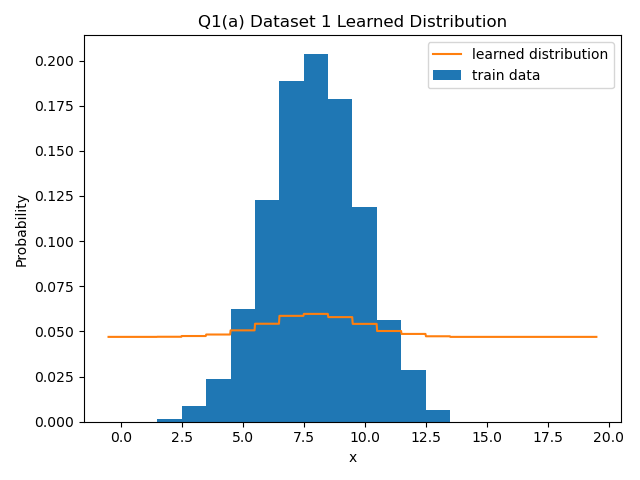
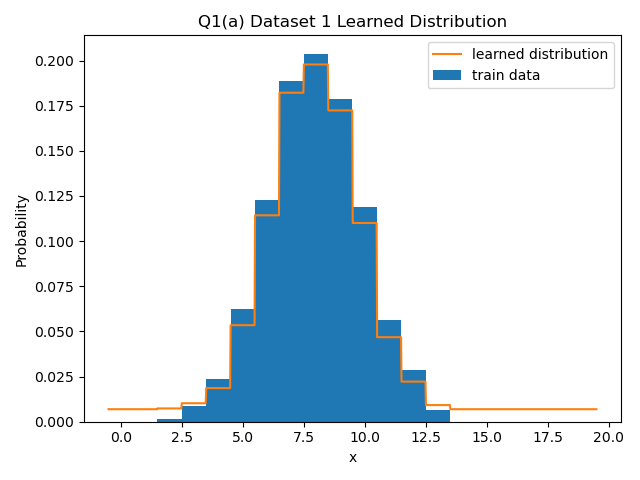
wip

diff --git a/homework1/playground.py b/homework1/playground.py
@@ -9,41 +9,69 @@ import trainer
 import models
 
 
-def q1_a(train_data, test_data, d, dset_id):
-    """
-    train_data: An (n_train,) numpy array of integers in {0, ..., d-1}
-    test_data: An (n_test,) numpy array of integers in {0, .., d-1}
-    d: The number of possible discrete values for random variable x
-    dset_id: An identifying number of which dataset is given (1 or 2). Most likely
-               used to set different hyperparameters for different datasets
-
-    Returns
-    - a (# of training iterations,) numpy array of train_losses evaluated every minibatch
-    - a (# of epochs + 1,) numpy array of test_losses evaluated once at initialization and after each epoch
-    - a numpy array of size (d,) of model probabilities
-    """
+def proto_q(train_data,
+            test_data,
+            model,
+            lr
+            ):
     batch_size = 64
-    model = models.Histogram(d)
-    optimizer = optim.SGD(model.parameters(), lr=0.001, momentum=0.9)
+    optimizer = optim.SGD(model.parameters(), lr=lr, momentum=0.9)
     train_dataloader = data.DataLoader(train_data,
                                        batch_size=batch_size,
                                        shuffle=True)
     test_dataloader = data.DataLoader(test_data,
                                       batch_size=batch_size,
                                       shuffle=True)
-    trainer.train_model(model, {
+    model, losses = trainer.train_model(model, {
         trainer.DataLoaderType.TRAIN: train_dataloader,
         trainer.DataLoaderType.TEST: test_dataloader
     },
-                        epochs=10,
-                        optimizer=optimizer
-                        )
-    return [100], [100], model.get_distribution()
+                                        epochs=50,
+                                        optimizer=optimizer,
+                                        batch_size=batch_size
+                                        )
 
+    train_loss = map(lambda x: x[trainer.DataLoaderType.TRAIN], losses)
+    test_loss = map(lambda x: x[trainer.DataLoaderType.TEST], losses)
+    return list(train_loss), list(test_loss), model.get_distribution()
+
+
+def q1_a(train_data, test_data, d, dset_id):
+    batch_size = 64
+    model = models.Histogram(d)
+    optimizer = optim.SGD(model.parameters(), lr=0.01, momentum=0.9)
+    train_dataloader = data.DataLoader(train_data,
+                                       batch_size=batch_size,
+                                       shuffle=True)
+    test_dataloader = data.DataLoader(test_data,
+                                      batch_size=batch_size,
+                                      shuffle=True)
+    model, losses = trainer.train_model(model, {
+        trainer.DataLoaderType.TRAIN: train_dataloader,
+        trainer.DataLoaderType.TEST: test_dataloader
+    },
+                                        epochs=50,
+                                        optimizer=optimizer,
+                                        batch_size=batch_size
+                                        )
+
+    train_loss = map(lambda x: x[trainer.DataLoaderType.TRAIN], losses)
+    test_loss = map(lambda x: x[trainer.DataLoaderType.TEST], losses)
+    return list(train_loss), list(test_loss), model.get_distribution()
+
+
+def q1_b(train_data, test_data, d, dset_id):
+    model = models.MixtureOfLogistics(d)
+    return proto_q(train_data, test_data, model, lr=0.00001)
 
 if __name__ == '__main__':
     # train_data, test_data = q1_sample_data_1()
     # d = 20
     # dset_type = 1
     # train_losses, test_losses, distribution = q1_a(train_data, test_data, d, dset_type)
-    q1_save_results(1, 'a', q1_a)
+
+    # q1_save_results(1, 'a', q1_a)
+    # q1_save_results(2, 'a', q1_a)
+
+    q1_save_results(1, 'b', q1_b)
+    # q1_save_results(2, 'b', q1_b)

diff --git a/homework1/models.py b/homework1/models.py
@@ -77,3 +77,79 @@ class Histogram(nn.Module):
         distribution = distribution.cpu().detach().numpy()
         distribution = np.squeeze(distribution)
         return distribution
+
+
+# https://github.com/Rayhane-mamah/Tacotron-2/issues/155
+# https://arxiv.org/pdf/1701.05517.pdf
+
+class MixtureOfLogistics(nn.Module):
+    def __init__(self, d, n_mix=4):
+        super().__init__()
+        self.d = d
+        self.n_mix = 4
+        # pi, m, s
+        self.W = torch.zeros(n_mix, 3)
+        self.W[:, 2] = torch.tensor(1 / n_mix)
+        self.W[:, 0] = torch.tensor(1 / n_mix)
+        self.W = nn.Parameter(self.W)
+        self.W.requires_grad = True
+
+    def forward(self, x):
+        value = 0
+        # pis = self.W[:, 1]
+        # softmaxed_pis = nn.Softmax(pis)
+        for i in range(self.n_mix):
+            s_pi = self.W[i, 0]  # softmaxed_pis[i]
+            m = self.W[i, 1]
+            s = self.W[i, 2]
+            active_x = torch.div(torch.subtract(x, m), s)
+            sigm = nn.Sigmoid()
+            sigmoid_result = sigm(active_x)
+            value += s_pi * sigmoid_result
+        # TODO: add clamping here
+        return value
+
+    # For the edge case of when $x = 0$,
+    # we replace $x-0.5$ by $-\infty$,
+    # and for $x = d-1$,
+    # we replace $x+0.5$ by $\infty$.
+
+    # https://github.com/Rayhane-mamah/Tacotron-2/blob/d13dbba16f0a434843916b5a8647a42fe34544f5/wavenet_vocoder/models/mixture.py#L44-L49
+
+    def loss(self, x):
+        #torch.autograd.set_detect_anomaly(True)
+        batch_size = x.shape[0]
+        bins = torch.tensor(list(range(0, self.d)))
+        minus_inf = float('-inf')
+        positive_inf = float('inf')
+        term_a = bins - 0.5
+        term_a[term_a == -0.5] = torch.tensor(minus_inf)
+        term_b = bins + 0.5
+        term_b[term_b >= (self.d - 0.5)] = torch.tensor(positive_inf)
+        values = []
+        # pis = self.W[:, 1]
+        # softmaxed_pis = nn.Softmax(pis)
+        for i in range(self.n_mix):
+            s_pi = self.W[i, 0]  # softmaxed_pis[i]
+            m = self.W[i, 1]
+            s = self.W[i, 2]
+            term_a_pre_res = torch.div(term_a - m, s)
+            sigm_a = nn.Sigmoid()
+            term_a_res = sigm_a(term_a_pre_res)
+            term_b_pre_res = torch.div(term_b - m, s)
+            sigm_b = nn.Sigmoid()
+            term_b_res = sigm_b(term_b_pre_res)
+            internal_res = term_a_res - term_b_res
+            value = s_pi * internal_res
+            values.append(value)
+        stacked_values = torch.stack(values)
+        summed_values = stacked_values.sum(dim=0)
+        neg_probs = F.log_softmax(summed_values)
+        neg_probs = torch.reshape(neg_probs, (1, self.d))
+        neg_probs_for_batch = torch.repeat_interleave(neg_probs, repeats=batch_size, dim=0)
+        nll_loss = nn.NLLLoss()
+        total_loss = nll_loss(neg_probs_for_batch, x)
+        return total_loss
+
+    def get_distribution(self):
+        """ YOUR CODE HERE """

diff --git a/homework1/trainer.py b/homework1/trainer.py
@@ -7,6 +7,7 @@ import numpy as np
 from enum import Enum
 import models
 
+
 # Hint: You may want to implement training and the evaluation procedures as functions
 # which take a model and the dataloaders as an input and return the losses.
 
@@ -17,16 +18,26 @@ class DataLoaderType(Enum):
     TEST = 3
 
 
+data.DataLoader
+
+
+# TODO: UPDATE
+#  - a (# of training iterations,) numpy array of train_losses evaluated every minibatch
+#   - a (# of epochs + 1,) numpy array of test_losses evaluated once at initialization and after each epoch
 def train_model(model,
                 # {DataLoaderType: DL}
                 dataloader_dict,
                 epochs,
-                optimizer):
+                optimizer,
+                batch_size):
+    epoch_losses = []
+    dataloader_types = dataloader_dict.keys()
     for epoch in range(epochs):  # loop over the dataset multiple times
-        running_loss = 0.0
-        dataloader_types = dataloader_dict.keys()
+        losses = {}
         for dataloader_type in dataloader_types:
+            losses[dataloader_type] = 0
             dataloader = dataloader_dict[dataloader_type]
+            num_batches = len(dataloader)
             for i, data in enumerate(dataloader, 0):
                 inputs = data
                 if dataloader_type == DataLoaderType.TRAIN:
@@ -41,8 +52,10 @@ def train_model(model,
                 elif dataloader_type == DataLoaderType.TEST:
                     model.eval()
                     loss = model.loss(inputs)
-                running_loss += loss.item()
-                if i % 50 == 0:  # print every 2000 mini-batches
+                losses[dataloader_type] += loss.item() / batch_size
+                if i % 1 == 0:
                     print('[%d, %5d] loss: %.3f' %
-                          (epoch + 1, i + 1, running_loss / 2000))
-                    running_loss = 0.0
+                          (epoch + 1, i + 1, losses[dataloader_type] / 2000))
+            losses[dataloader_type] /= num_batches
+        epoch_losses.append(losses)
+    return model, epoch_losses
